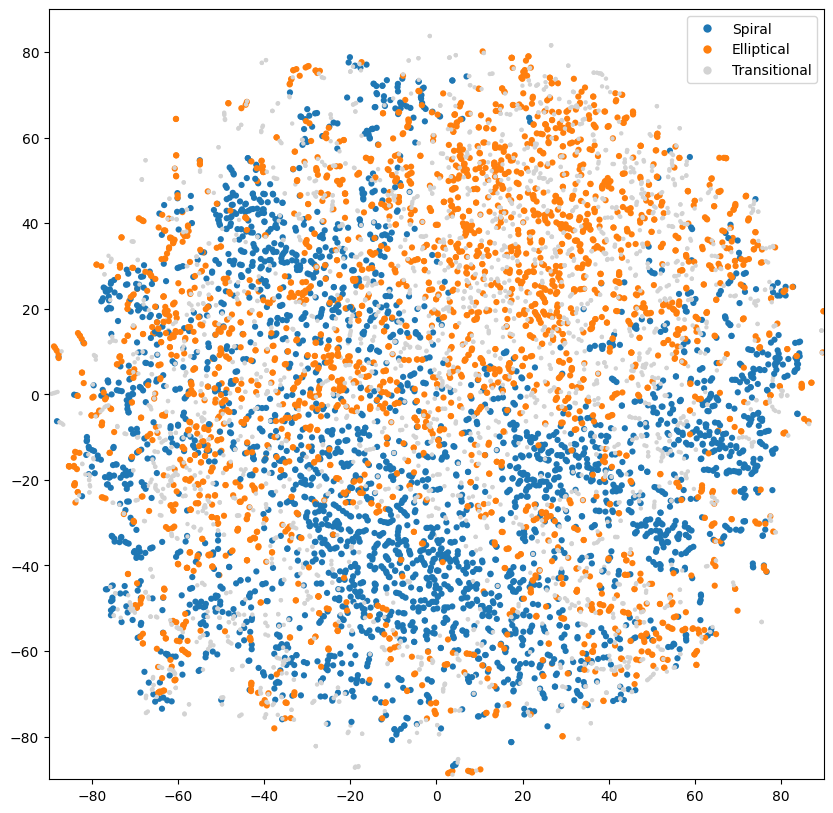
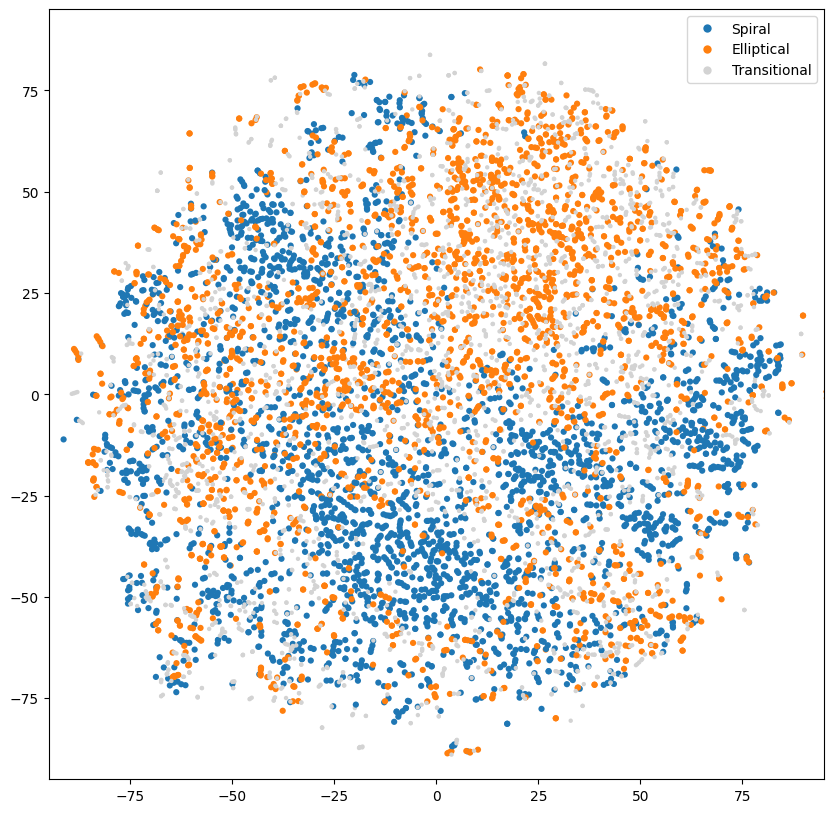
Code

diff --git a/2d_visualisation.py b/2d_visualisation.py
@@ -1,6 +1,5 @@
-from xml.sax.handler import all_properties
-
 import matplotlib.pyplot as plt
+from matplotlib.colors import TwoSlopeNorm
 import numpy as np
 import pandas as pd
 from sklearn.decomposition import PCA
@@ -8,7 +7,6 @@ from sklearn.manifold import TSNE
 # from umap import UMAP
 import seaborn as sns
 
-from properties import all_properties_balanced
 
 run = 2
 encoding_dim = 30
@@ -137,9 +135,9 @@ tsne = TSNE(n_components=2, random_state=0).fit_transform(extracted_features_all
 
 print(tsne.shape)
 
-fig, axs = plt.subplots(1, 1, figsize=(10, 10))
-
-
+# fig, axs = plt.subplots(1, 1, figsize=(10, 10))
+#
+#
 # palette = ["C0", "C1", "#D3D3D3"]
 #
 # size_map = {"Spiral": 20, "Elliptical": 20, "Transitional": 10}
@@ -157,15 +155,33 @@ fig, axs = plt.subplots(1, 1, figsize=(10, 10))
 # filtered = [(h, l) for h, l in zip(handles, labels) if not l.isdigit()]
 # handles_filtered, labels_filtered = zip(*filtered)
 # axs.legend(handles_filtered, labels_filtered)
+#
+# axs.set_xlim(-95, 95)
+# axs.set_ylim(-95, 95)
+#
+# plt.savefig("Variational Eagle/Plots/tsne_nop_flow_pca_morphology_" + str(n_flows) + "_" + str(run), bbox_inches="tight")
+# plt.show()
 
-sns.scatterplot(x=tsne.T[0], y=tsne.T[1], ax=axs, hue=all_properties["DiscToTotal"], linewidth=0, size=20)
-
-# plt.colorbar()
 
 
 
-axs.set_xlim(-90, 90)
-axs.set_ylim(-90, 90)
+fig, axs = plt.subplots(1, 1, figsize=(12, 10))
 
-plt.savefig("Variational Eagle/Plots/tsne_nop_flow_pca_morphology_" + str(n_flows) + "_" + str(run) + "_colourbar", bbox_inches="tight")
+
+# norm = TwoSlopeNorm(vmin=all_properties["DiscToTotal"].min(), vcenter=0.15, vmax=all_properties["DiscToTotal"].max())
+norm = TwoSlopeNorm(vmin=0, vcenter=0.15, vmax=1)
+
+# sns.scatterplot(x=tsne.T[0], y=tsne.T[1], ax=axs, c=all_properties["DiscToTotal"], cmap="jet", linewidth=0, size=20)
+# tsne_scatter = axs.scatter(x=tsne.T[0], y=tsne.T[1], c=all_properties["DiscToTotal"], cmap="Blues", s=10)
+tsne_scatter = axs.scatter(x=tsne.T[0], y=tsne.T[1], c=all_properties["DiscToTotal"], cmap="bwr", norm=norm, s=10)
+
+cbar = plt.colorbar(tsne_scatter, ax=axs, label="Disk-Total Ratio")
+cbar.ax.yaxis.set_label_position('left')
+
+
+
+axs.set_xlim(-95, 95)
+axs.set_ylim(-95, 95)
+
+plt.savefig("Variational Eagle/Plots/tsne_nop_flow_pca_morphology_" + str(n_flows) + "_" + str(run) + "_colourbar_6", bbox_inches="tight")
 plt.show()

diff --git a/planar_flow_vae_eagle.py b/planar_flow_vae_eagle.py
@@ -25,7 +25,7 @@ tfd = tfp.distributions
 
 
 run = 1
-encoding_dim = 21
+encoding_dim = 26
 n_flows = 0
 beta = 0.0001
 beta_name = "0001"
@@ -35,7 +35,7 @@ batch_size = 32
 
 # select which gpu to use
 os.environ["CUDA_DEVICE_ORDER"]="PCI_BUS_ID"
-os.environ["CUDA_VISIBLE_DEVICES"]="9"
+os.environ["CUDA_VISIBLE_DEVICES"]="0"
 
 
 
